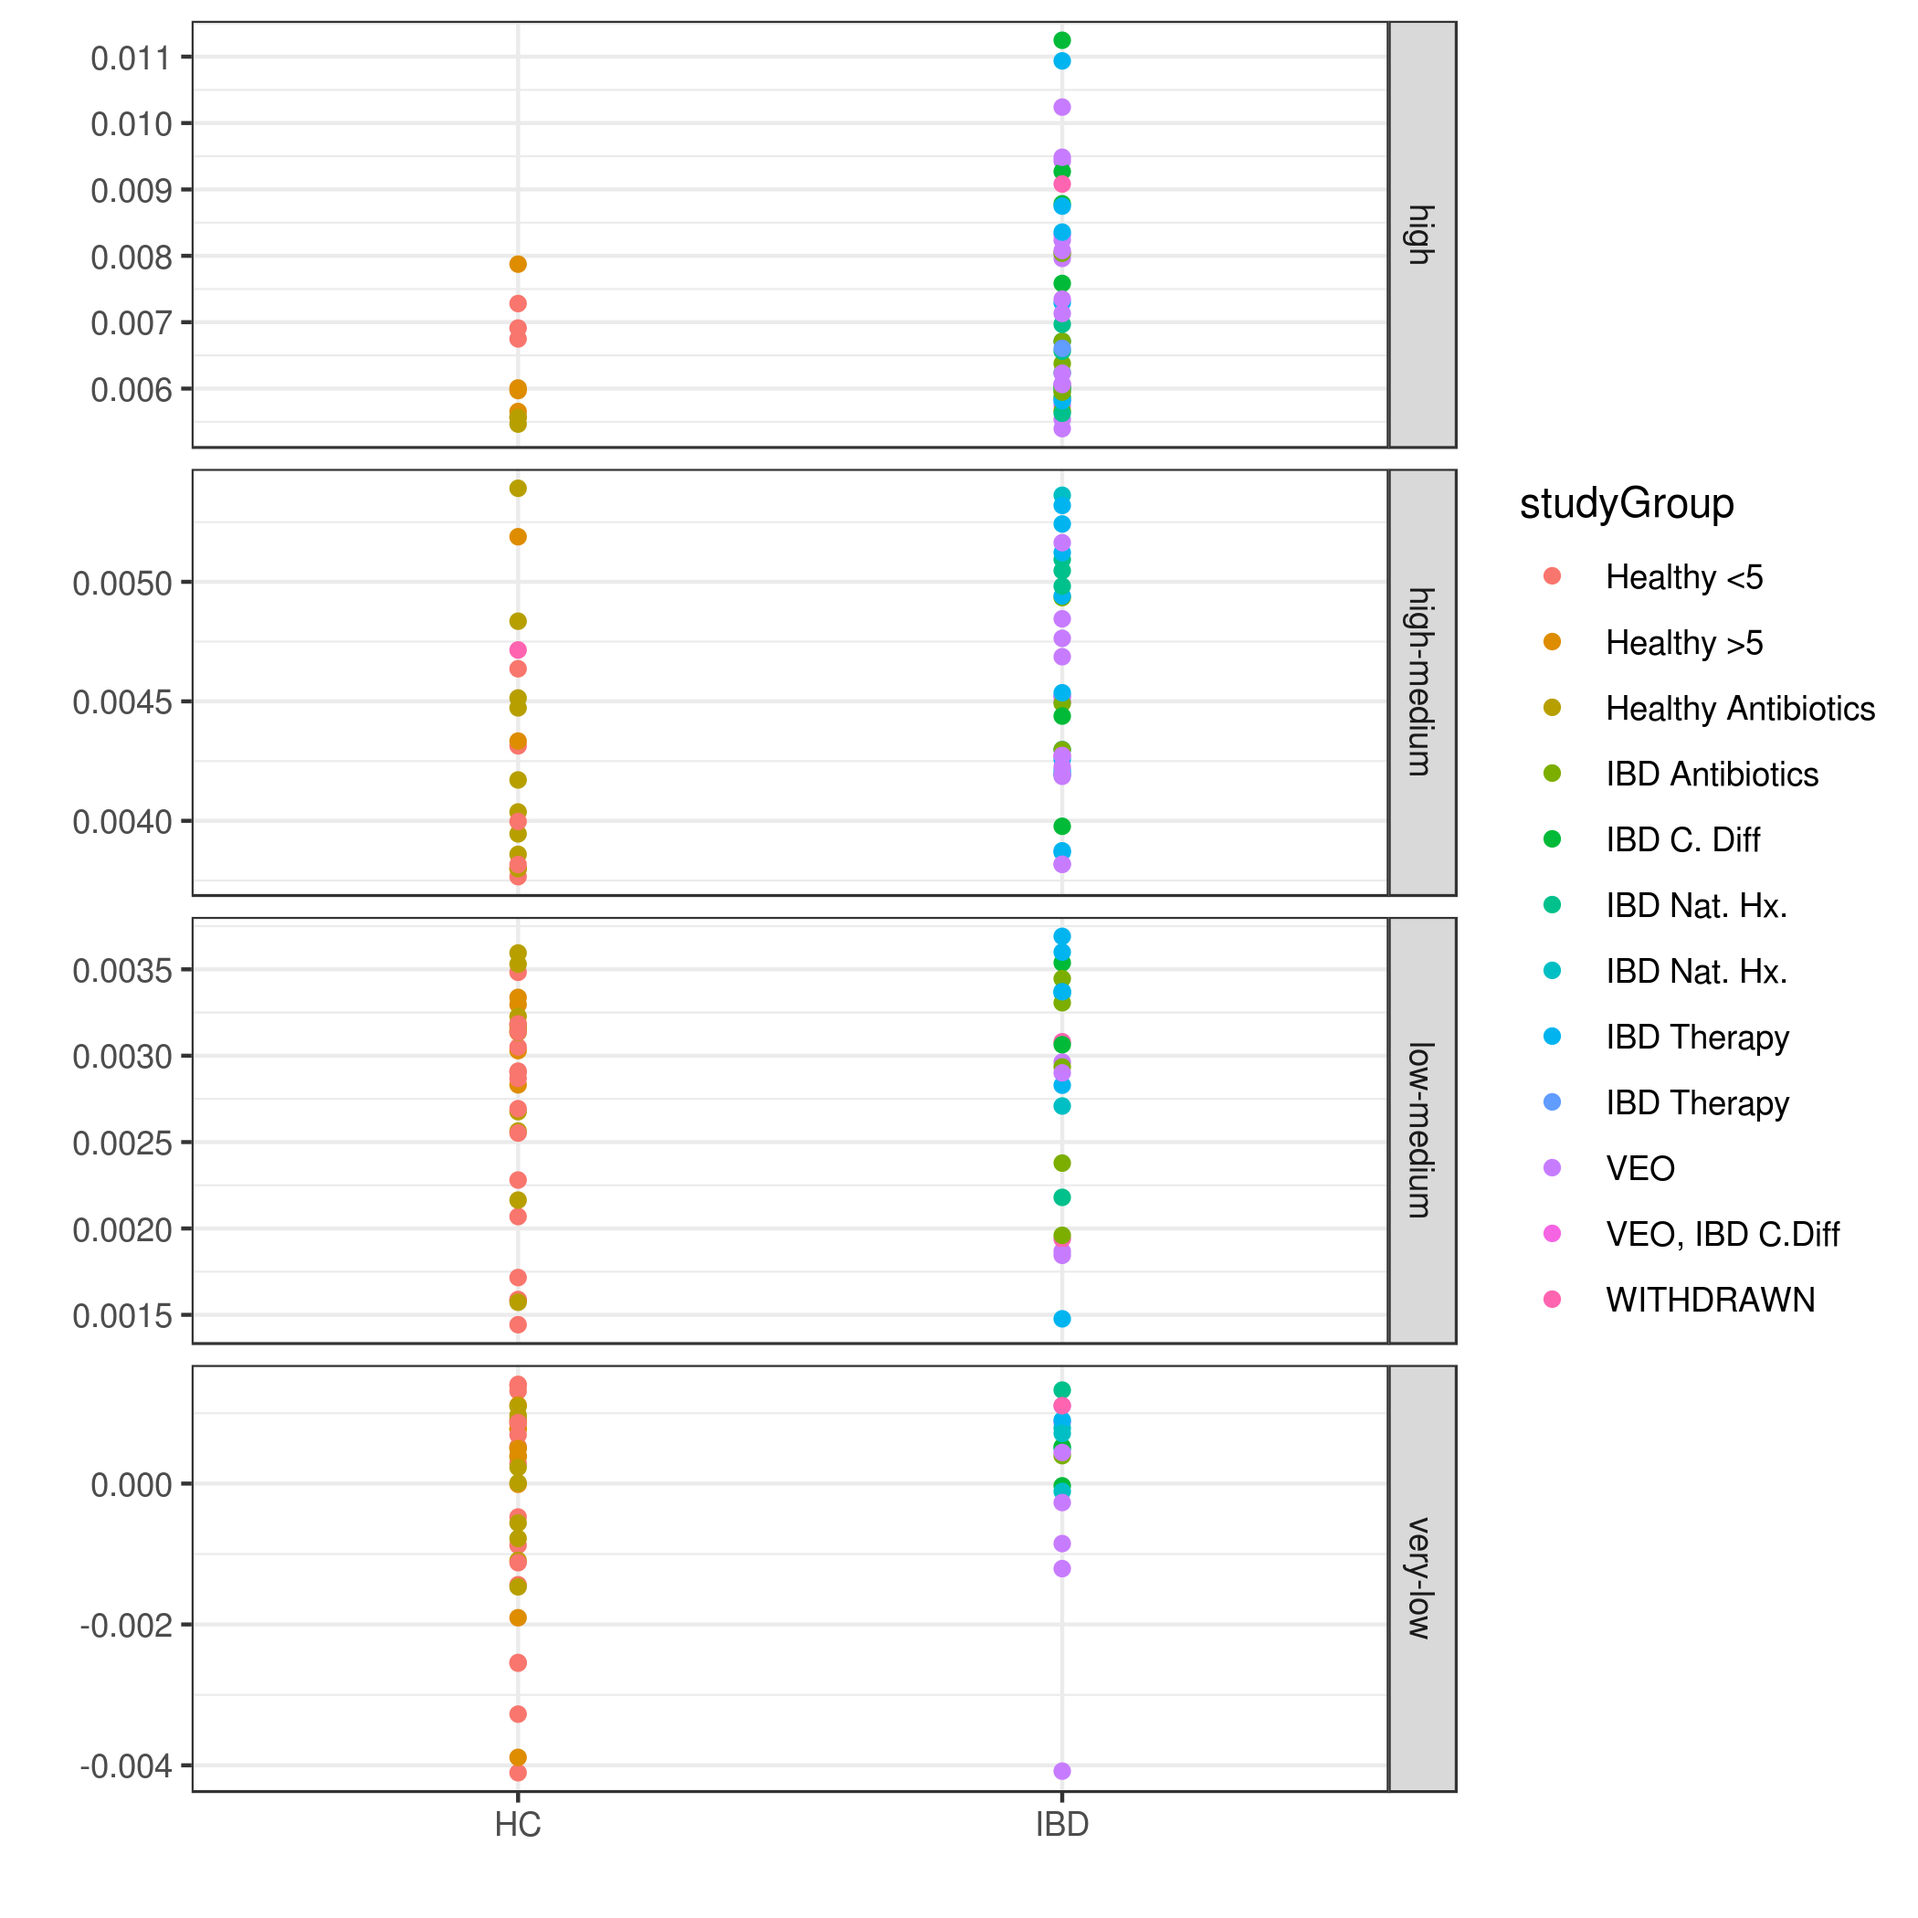
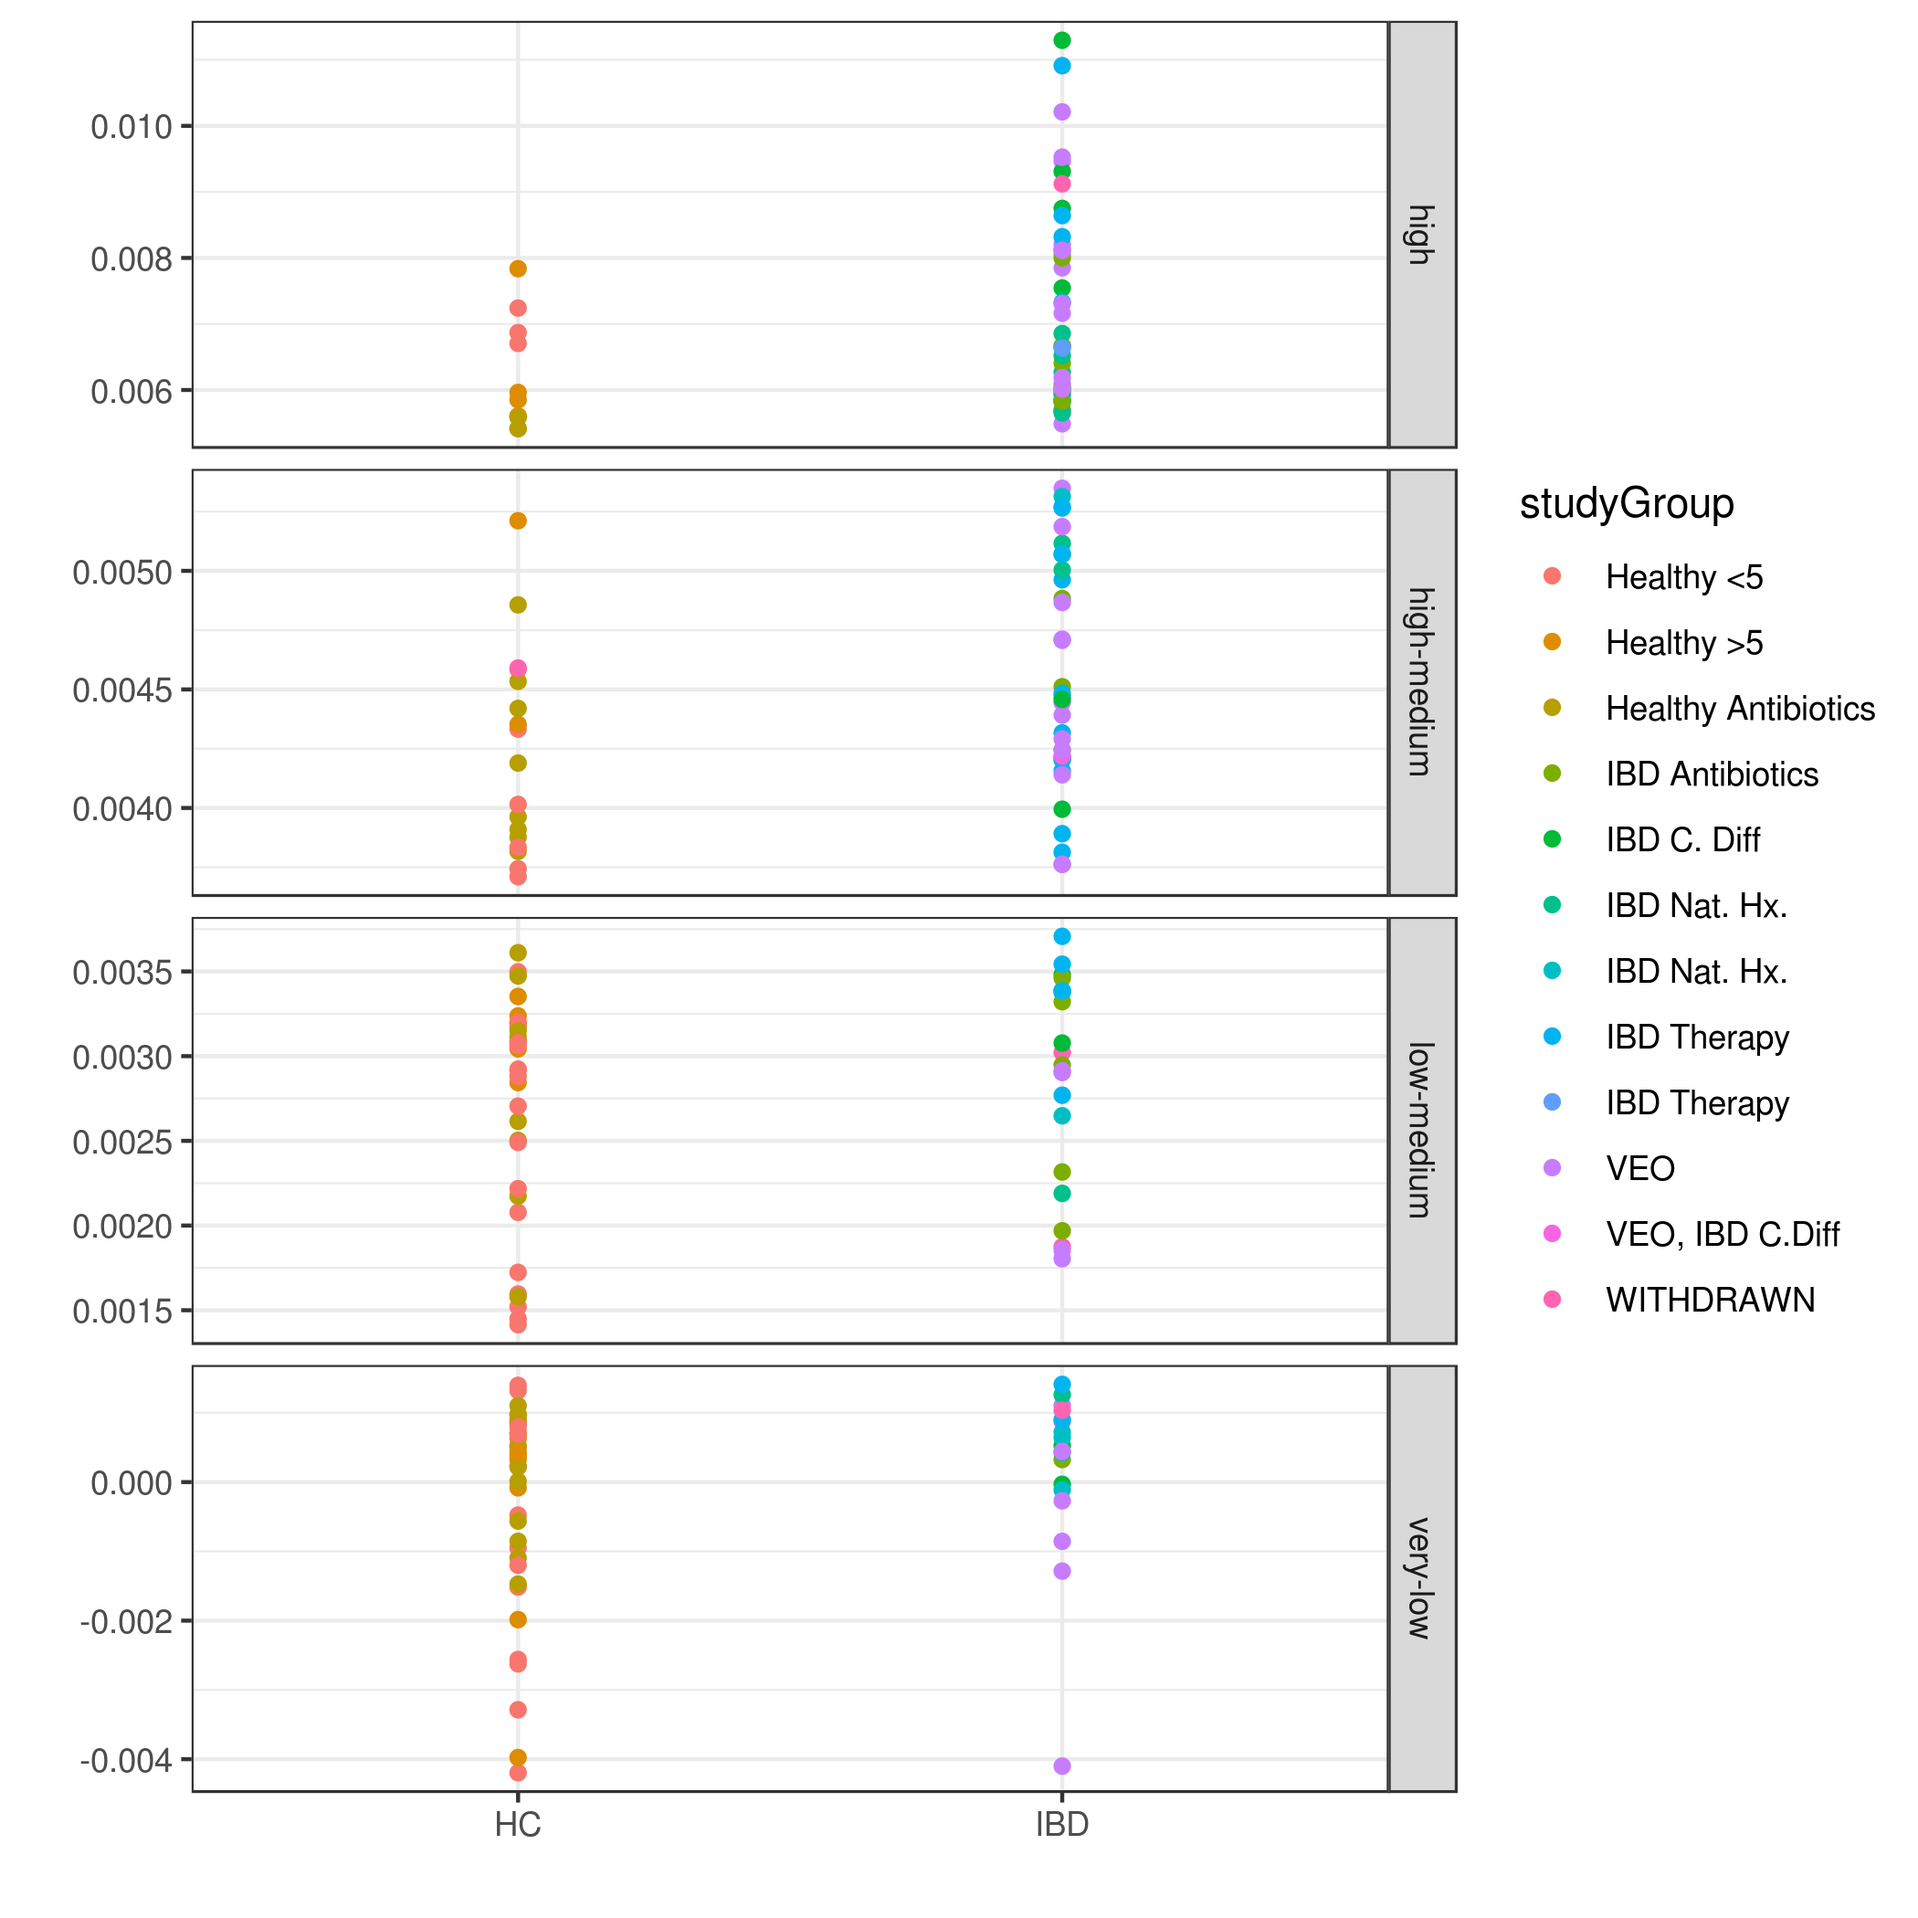
Rm rs2226628 from prs.

diff --git a/src/rules/sf_prs.py b/src/rules/sf_prs.py
@@ -20,7 +20,8 @@ rule prep_gwas_base_eur:
         df = pd.read_excel(input.i, sheet_name='Heterogeneity of effect', skiprows=7)
         cols = ['CHR', 'BP', 'SNP', 'A1', 'A2', 'EUR_OR', 'EUR_PVAL', 'EUR_SE']
         df.loc[:, 'BP'] = df.apply(fix_positions, axis=1)
-        df[cols].rename(columns={'EUR_OR':'OR', 'EUR_PVAL':'PVAL', 'EUR_SE':'SE'}).to_csv(output.o, index=False, sep=' ')
+        crit = df.apply(lambda row: row['SNP'] != 'rs2226628', axis=1)
+        df[crit][cols].rename(columns={'EUR_OR':'OR', 'EUR_PVAL':'PVAL', 'EUR_SE':'SE'}).to_csv(output.o, index=False, sep=' ')
 
 # use eur snps for now
 rule prep_gwas_base_tpop:
@@ -42,7 +43,8 @@ rule prep_gwas_base_tpop:
         df = pd.read_excel(input.i, sheet_name='Heterogeneity of effect', skiprows=7)
         cols = ['CHR', 'BP', 'SNP', 'A1', 'A2', 'EUR_OR', 'EUR_PVAL', 'EUR_SE']
         df.loc[:, 'BP'] = df.apply(fix_positions, axis=1)
-        df[cols].rename(columns={'EUR_OR':'OR', 'EUR_PVAL':'PVAL', 'EUR_SE':'SE'}).to_csv(output.o, index=False, sep=' ')
+        crit = df.apply(lambda row: row['SNP'] != 'rs2226628', axis=1)
+        df[crit][cols].rename(columns={'EUR_OR':'OR', 'EUR_PVAL':'PVAL', 'EUR_SE':'SE'}).to_csv(output.o, index=False, sep=' ')
 
 rule mk_prsice_sample_ls:
     input:
@@ -149,7 +151,7 @@ rule prsice_eur:
         '--base {input.a} --perm 1000000 --no-clump '
         '--target {DATA}interim/bfiles_imputed_grouped/{wildcards.group}/eur '
         '--thread {threads} --binary-target T '
-        '--out {DATA}interim/prsice/{wildcards.group}/eur &> {log}'
+        '--out {DATA}interim/prsice/{wildcards.group}/eur &> {log} || touch {log}'
 
 rule mk_covfile:
     input:
@@ -183,7 +185,7 @@ rule prsice_tpop:
         '--target {DATA}interim/bfiles_imputed_grouped/{wildcards.group}/tpop '
         '--thread {threads} --binary-target T '
         '--cov-file {input.cv} --cov-col "@C[1-2]" '
-        '--out {DATA}interim/prsice/{wildcards.group}/tpop &> {log}'
+        '--out {DATA}interim/prsice/{wildcards.group}/tpop &> {log} || touch {log}'
 
 rule annotate_prsice_scores:
     input:

diff --git a/src/rules/sf_ann.py b/src/rules/sf_ann.py
@@ -113,5 +113,7 @@ rule gene_assoc:
                 'A1_snptest', 'A2_snptest', 'P_snptest', 'OR_snptest',
                 'cases_maf', 'controls_maf',
                 'A1_adult', 'A2_adult', 'PVAL_adult', 'OR_adult',
-                'A1_vcf', 'A2_vcf', 'eff', 'in_adult_gene']
+                'A1_vcf', 'A2_vcf', 'eff',]# 'in_adult_gene']
+        if 'ped'==wildcards.age:
+            cols.append('in_adult_gene')
         df[cols].sort_values(by='P_snptest', ascending=True).to_csv(output.o, index=False, sep=',')

diff --git a/writeup/tables/prs.eur.md b/writeup/tables/prs.eur.md
@@ -1,6 +1,6 @@
-| Phenotype   | Set   |   Threshold |     PRS.R2 |    Full.R2 |   Null.R2 | Prevalence   |   Coefficient |   Standard.Error |          P |   Num_SNP |   Empirical-P | test    |      auc |
-|:------------|:------|------------:|-----------:|-----------:|----------:|:-------------|--------------:|-----------------:|-----------:|----------:|--------------:|:--------|---------:|
-| -           | Base  |      0.0024 | 0.169971   | 0.169971   |         0 | -            |      282.692  |          84.0009 | 0.00076449 |       231 |      0.001115 | early   | 0.712993 |
-| -           | Base  |      0.0024 | 0.211084   | 0.211084   |         0 | -            |      319.299  |          69.9462 | 4.9968e-06 |       231 |      1.2e-05  | all     | 0.7409   |
-| -           | Base  |      0.0024 | 0.270781   | 0.270781   |         0 | -            |      397.952  |          90.5791 | 1.1158e-05 |       231 |      2.5e-05  | late    | 0.760908 |
-| -           | Base  |      0.0001 | 0.00720984 | 0.00720984 |         0 | -            |      -50.1986 |          72.0272 | 0.485841   |       230 |      0.491804 | ibd_all | 0.482125 |
+| Phenotype   | Set   |   Threshold |     PRS.R2 |    Full.R2 |   Null.R2 | Prevalence   |   Coefficient |   Standard.Error |           P |   Num_SNP |   Empirical-P | test    |      auc |
+|:------------|:------|------------:|-----------:|-----------:|----------:|:-------------|--------------:|-----------------:|------------:|----------:|--------------:|:--------|---------:|
+| -           | Base  |      0.0001 | 0.16894    | 0.16894    |         0 | -            |      281.4    |          83.8705 | 0.000793175 |       230 |      0.001166 | early   | 0.712993 |
+| -           | Base  |      0.0001 | 0.210016   | 0.210016   |         0 | -            |      317.877  |          69.7895 | 5.24368e-06 |       230 |      1.9e-05  | all     | 0.740385 |
+| -           | Base  |      0.0001 | 0.269434   | 0.269434   |         0 | -            |      396.113  |          90.3778 | 1.17132e-05 |       230 |      2.5e-05  | late    | 0.760024 |
+| -           | Base  |      0.0001 | 0.00720984 | 0.00720984 |         0 | -            |      -50.1986 |          72.0272 | 0.485841    |       230 |      0.487946 | ibd_all | 0.482125 |

diff --git a/writeup/tables/prs.tpop.md b/writeup/tables/prs.tpop.md
@@ -1,6 +1,6 @@
 | Phenotype   | Set   |   Threshold |     PRS.R2 |   Full.R2 |    Null.R2 | Prevalence   |   Coefficient |   Standard.Error |           P |   Num_SNP |   Empirical-P | test    |      auc |
 |:------------|:------|------------:|-----------:|----------:|-----------:|:-------------|--------------:|-----------------:|------------:|----------:|--------------:|:--------|---------:|
-| -           | Base  |      0.0024 | 0.164843   |  0.28671  | 0.121867   | -            |      322.002  |          82.6653 | 9.80964e-05 |       229 |   0.000167    | early   | 0.746165 |
-| -           | Base  |      0.0024 | 0.207309   |  0.219265 | 0.011956   | -            |      336.184  |          63.6219 | 1.26332e-07 |       229 |   9.99999e-07 | all     | 0.73982  |
-| -           | Base  |      0.0001 | 0.232677   |  0.238267 | 0.00558997 | -            |      381.301  |          77.83   | 9.62476e-07 |       228 |   5e-06       | late    | 0.734625 |
-| -           | Base  |      0.0001 | 0.00194353 |  0.152283 | 0.15034    | -            |      -31.1869 |          72.4525 | 0.666871    |       228 |   0.673297    | ibd_all | 0.528831 |
+| -           | Base  |      0.0001 | 0.164568   |  0.286435 | 0.121867   | -            |      321.492  |          82.6415 | 0.000100163 |       228 |      0.000154 | early   | 0.744433 |
+| -           | Base  |      0.0001 | 0.207245   |  0.219201 | 0.011956   | -            |      335.45   |          63.4979 | 1.27187e-07 |       228 |      2e-06    | all     | 0.738261 |
+| -           | Base  |      0.0001 | 0.232677   |  0.238267 | 0.00558997 | -            |      381.301  |          77.83   | 9.62476e-07 |       228 |      4e-06    | late    | 0.734625 |
+| -           | Base  |      0.0001 | 0.00194353 |  0.152283 | 0.15034    | -            |      -31.1869 |          72.4525 | 0.666871    |       228 |      0.667543 | ibd_all | 0.528831 |
